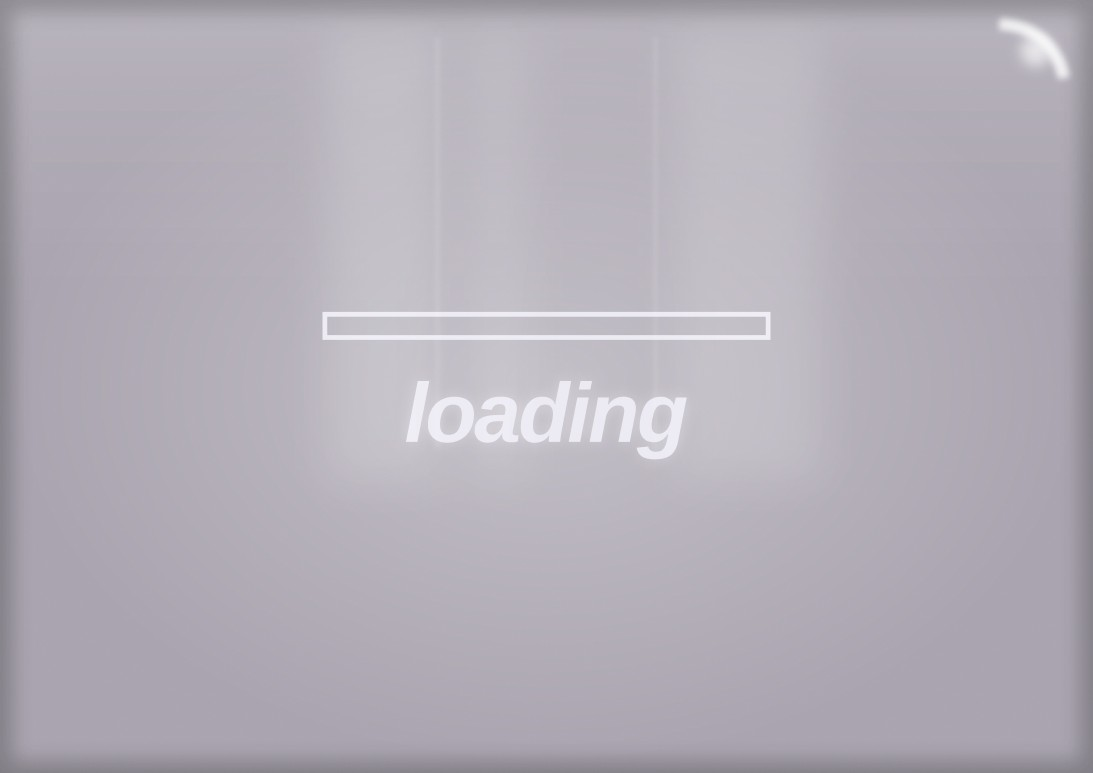
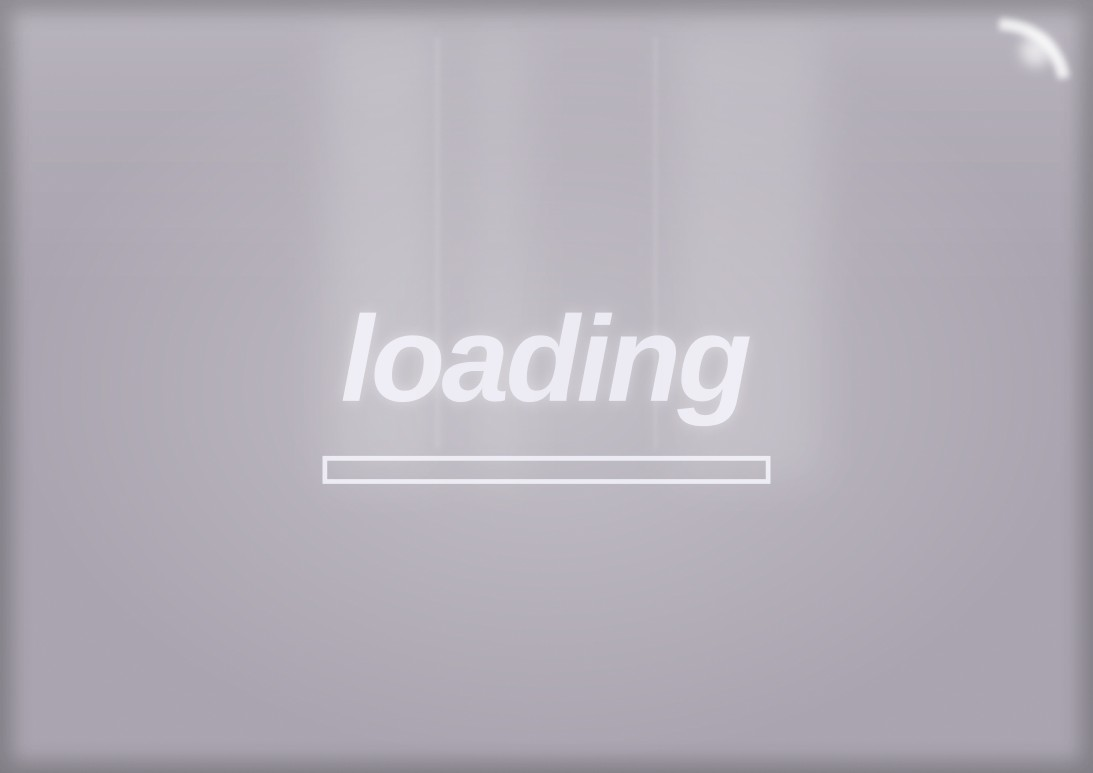
Put the loading label above the bar and restore the dialog's original type

Changed region(s): [[0.28, 0.4036, 0.7155, 0.652]]

diff --git a/site.css b/site.css
@@ -416,3 +416,6 @@ button.box.close:hover, .xbox:hover, .a-close:hover { filter: brightness(.95) sa
 .boot-fill { top: 41.14%; }
 
 .vs .thumb { background-size: 100% 100% !important; background-position: center !important; }
+/* loading label above the bar; dialog nudged up */
+.boot-fill { top: 59.77%; }
+.stage-home .alert { top: 536px; }
